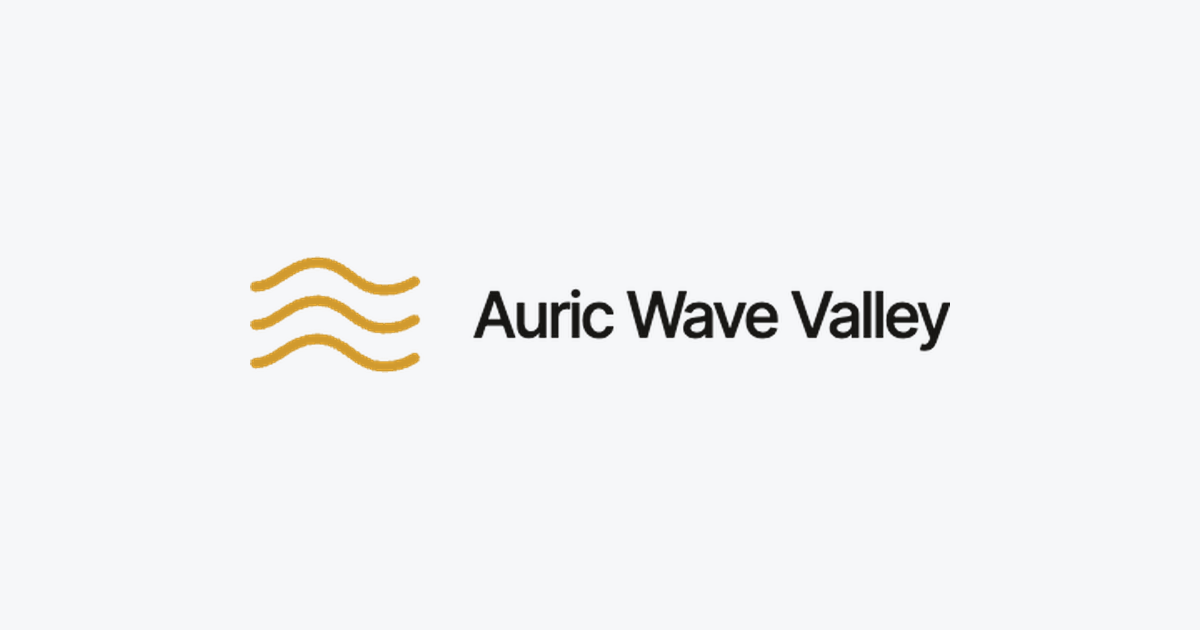
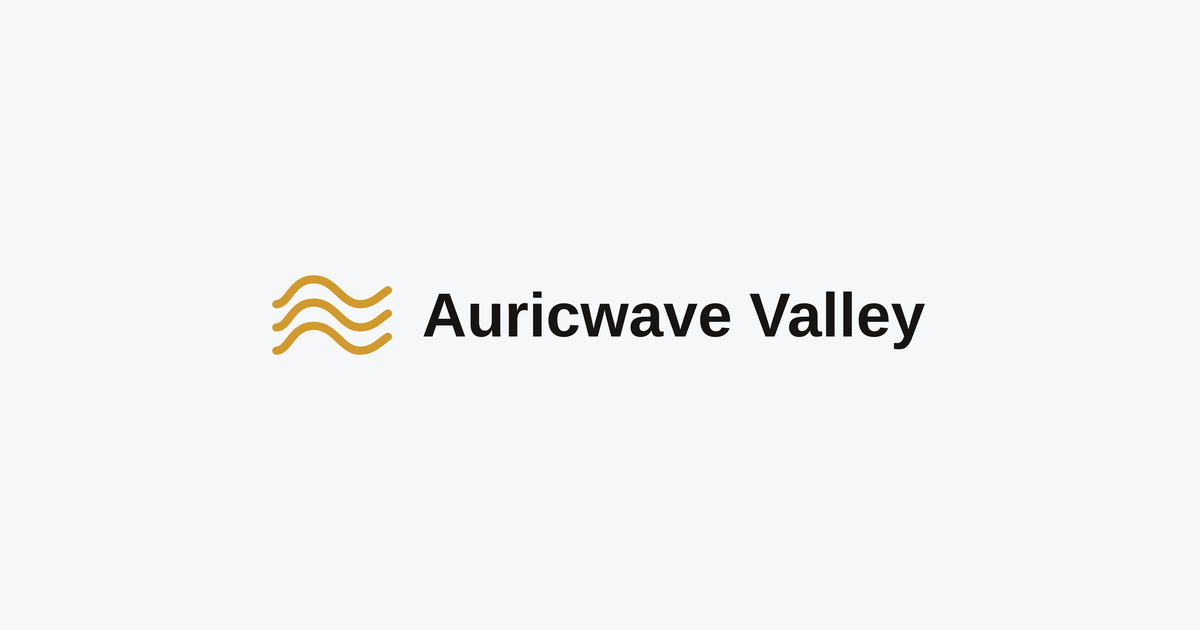
added email and name change

Changed region(s): [[0.2158, 0.3921, 0.8017, 0.6032]]

diff --git a/index.html b/index.html
@@ -3,15 +3,15 @@
 <head>
 <meta charset="utf-8">
 <meta name="viewport" content="width=device-width, initial-scale=1">
-<title>Auric Wave Valley — Software development studio</title>
-<meta name="description" content="Auric Wave Valley is a software development company building a family of small, focused consumer apps that handle the everyday things properly.">
+<title>Auricwave Valley — Software development studio</title>
+<meta name="description" content="Auricwave Valley is a software development company building a family of small, focused consumer apps that handle the everyday things properly.">
 <link rel="canonical" href="https://auricwavevalley.com/">
 <link rel="icon" href="/favicon.svg" type="image/svg+xml">
 <meta name="theme-color" content="#f6f7f9">
 
 <meta property="og:type" content="website">
 <meta property="og:url" content="https://auricwavevalley.com/">
-<meta property="og:title" content="Auric Wave Valley — Software development studio">
+<meta property="og:title" content="Auricwave Valley — Software development studio">
 <meta property="og:description" content="We build a family of small, focused consumer apps that handle the everyday things properly.">
 <meta property="og:image" content="https://auricwavevalley.com/og.png">
 <meta name="twitter:card" content="summary_large_image">
@@ -184,10 +184,18 @@ p:last-child{margin-bottom:0}
 .contact .eyebrow{color:rgba(255,255,255,.42)}
 .contact h2{max-width:20ch;margin:0 auto}
 .contact p{color:rgba(255,255,255,.62);max-width:46ch;margin:22px auto 0;font-size:1.05rem}
+.mailto{
+  display:inline-block;margin-top:34px;
+  font-size:clamp(1.05rem,3vw,1.6rem);font-weight:500;letter-spacing:-.02em;
+  color:var(--auric-lit);text-decoration:none;
+  border-bottom:1px solid rgba(229,184,98,.38);padding-bottom:4px;
+  transition:border-color .25s ease;
+}
+.mailto:hover{border-bottom-color:var(--auric-lit)}
 
 /* ---------- footer ---------- */
 .footer{padding:34px 0;font-size:13.5px;color:var(--ink-3)}
-.footer-in{display:flex;justify-content:space-between;align-items:center;gap:18px;flex-wrap:wrap}
+.footer-in{display:flex;justify-content:space-between;align-items:center;gap:14px 28px;flex-wrap:wrap}
 .footer a{text-decoration:none;color:var(--ink-2)}
 .footer a:hover{color:var(--ink)}
 .footer-mark{display:flex;align-items:center;gap:9px;color:var(--ink-2);font-weight:600;letter-spacing:-.02em}
@@ -240,13 +248,13 @@ p:last-child{margin-bottom:0}
           <path d="M1 19 C9 19 11 3 25 3 C39 3 43 19 55 19 C63 19 67 14 73 10" transform="translate(0,30)"/>
         </g>
       </svg>
-      Auric Wave Valley
+      Auricwave Valley
     </a>
     <nav class="nav-links" aria-label="Sections">
       <a href="#build">What we build</a>
       <a href="#about">About</a>
       <a href="#how">How we work</a>
-      <a href="#contact">Company</a>
+      <a href="#contact">Contact</a>
     </nav>
   </div>
 </header>
@@ -258,10 +266,10 @@ p:last-child{margin-bottom:0}
     <div class="wrap">
       <p class="eyebrow">Software development studio</p>
       <h1>Apps for the small parts of the day.</h1>
-      <p class="lead">Auric Wave Valley builds consumer software — a family of small, focused apps you open without thinking, use for ninety seconds, and close knowing the thing is handled.</p>
+      <p class="lead">Auricwave Valley builds consumer software — a family of small, focused apps you open without thinking, use for ninety seconds, and close knowing the thing is handled.</p>
       <div class="hero-cta">
         <a class="btn btn-primary" href="#build">See what we build</a>
-        <a class="btn btn-ghost" href="#contact">Who we are</a>
+        <a class="btn btn-ghost" href="#contact">Get in touch</a>
       </div>
       <p class="hero-note">First release in development</p>
     </div>
@@ -324,7 +332,7 @@ p:last-child{margin-bottom:0}
         <h2>Software that earns its place.</h2>
       </div>
       <div class="about-body reveal">
-        <p><strong>Auric Wave Valley is a software development company.</strong> We design and build consumer apps — multiple products, each one aimed at a specific need people actually have, rather than a single platform that tries to be everything.</p>
+        <p><strong>Auricwave Valley is a software development company.</strong> We design and build consumer apps — multiple products, each one aimed at a specific need people actually have, rather than a single platform that tries to be everything.</p>
         <p>We started from a simple observation: most of the friction in a day isn't big. It's the shopping list living in three places, the free trial that quietly became a subscription, the calendar nobody else can see. None of it is hard to fix. It just needs software built with restraint — one clear purpose, no clutter, and nothing asking for attention it hasn't earned.</p>
         <p>So we work in small, focused releases. Every app we ship has to do one job properly, open fast on the phone you already own, and be understood without instructions. We collect only the data an app needs to work, and we don't use dark patterns to keep you inside it. If something we build can't earn a place on your home screen, we'd rather fix it or drop it than pad it out with features.</p>
         <p>We're a small team, deliberately — it keeps the decisions close to both the code and the people using it. Our aim over time is a family of apps that share one standard: quiet, quick, and genuinely useful on an ordinary Tuesday.</p>
@@ -362,9 +370,10 @@ p:last-child{margin-bottom:0}
   <!-- CONTACT -->
   <section class="section contact" id="contact">
     <div class="wrap">
-      <p class="eyebrow">The company</p>
-      <h2>Who we are.</h2>
-      <p>Auric Wave Valley is the software development arm of N2 Digital, an Australian registered company. Partnership, press and early-access enquiries are welcome — our contact address goes live alongside our first release.</p>
+      <p class="eyebrow">Contact</p>
+      <h2>Tell us what's getting in your way.</h2>
+      <p>Partnerships, press, early access, or an idea for an app you wish existed — we read everything that comes in.</p>
+      <a class="mailto" href="mailto:info@auricwavevalley.com">info@auricwavevalley.com</a>
     </div>
   </section>
 
@@ -380,9 +389,10 @@ p:last-child{margin-bottom:0}
           <path d="M1 19 C9 19 11 3 25 3 C39 3 43 19 55 19 C63 19 67 14 73 10" transform="translate(0,30)"/>
         </g>
       </svg>
-        Auric Wave Valley
+        Auricwave Valley
       </span>
-      <span>&copy; <span id="yr">2026</span> Auric Wave Valley. All rights reserved.</span>
+      <span>&copy; <span id="yr">2026</span> Auricwave Valley. All rights reserved.</span>
+      <a href="mailto:info@auricwavevalley.com">info@auricwavevalley.com</a>
       <span>Part of N2 Digital Pty Ltd &middot; ABN 61 700 972 425</span>
     </div>
   </footer>

diff --git a/404.html b/404.html
@@ -3,7 +3,7 @@
 <head>
 <meta charset="utf-8">
 <meta name="viewport" content="width=device-width, initial-scale=1">
-<title>Page not found — Auric Wave Valley</title>
+<title>Page not found — Auricwave Valley</title>
 <link rel="icon" href="/favicon.svg" type="image/svg+xml">
 <link rel="preconnect" href="https://fonts.googleapis.com">
 <link rel="preconnect" href="https://fonts.gstatic.com" crossorigin>

diff --git a/README.md b/README.md
@@ -1,6 +1,6 @@
 # auricwavevalley.com
 
-Static website for Auric Wave Valley, hosted free on GitHub Pages with DNS at Cloudflare.
+Static website for Auricwave Valley, hosted free on GitHub Pages with DNS at Cloudflare.
 
 ## Files
 
@@ -10,7 +10,8 @@ Static website for Auric Wave Valley, hosted free on GitHub Pages with DNS at Cl
 | `404.html` | Shown when someone hits a URL that doesn't exist. |
 | `favicon.svg` | Browser tab icon — the wave mark in gold on near-black. |
 | `logo-mark.svg` | The three-wave mark as scalable vector. Used inline in the header and footer. |
-| `logo-mark.png`, `logo-lockup.png` | Your original raster logos, kept in the repo for reuse. |
+| `logo-mark.png` | Your original raster mark. |
+| `logo-lockup-OLD-NAME.png` | Your original horizontal lockup. **It still reads "Auric Wave Valley"** — replace it with new artwork when you have it, then rename it to `logo-lockup.png`. |
 | `og.png` | 1200x630 preview image shown when the site is shared on social or in chat apps. |
 | `CNAME` | Tells GitHub Pages the site lives at `auricwavevalley.com`. Do not delete. |
 | `robots.txt`, `sitemap.xml` | Search engine basics. |
@@ -78,7 +79,7 @@ Open `index.html` on GitHub and click the pencil icon. Commit, and the change is
 
 Things you'll probably want to change:
 
-- **Contact details** — the site currently carries no email address or form, so there is no way for a visitor to reach you. When you have a mailbox ready, add it to the contact section as `<a class="entity-name" href="mailto:YOUR@ADDRESS">YOUR@ADDRESS</a>`. Cloudflare Email Routing will forward an address at your domain to a personal inbox for free.
+- **Email address** — `info@auricwavevalley.com` appears twice in `index.html` (the contact section and the footer). It won't receive anything until the mailbox exists: Cloudflare Email Routing forwards an address at your domain to a personal inbox for free, under **Email → Email Routing** in your Cloudflare dashboard.
 - **Company details** — the registered entity and ABN appear in the contact section and the footer. Update both if they change.
 - **The three cards** under "What we build" — swap the placeholder categories for your real app names once they're ready, and change the "In development" chips.
 - **Colours** — every colour is defined once at the top of the `<style>` block under `:root`. `--auric` is the gold accent.
